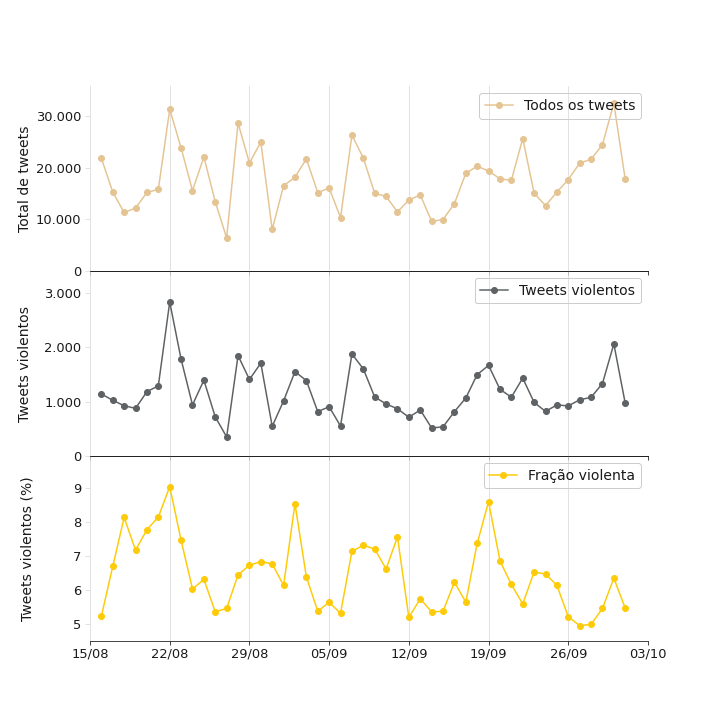
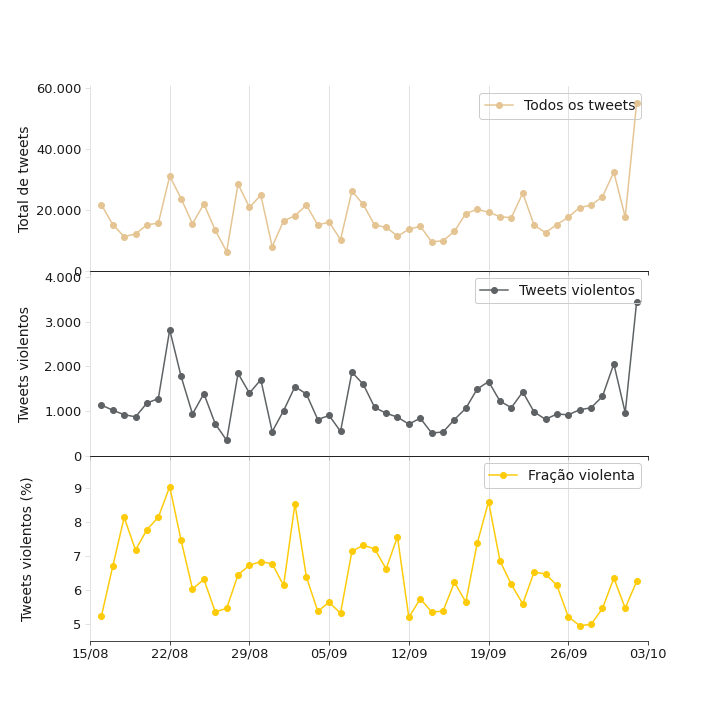
Auto-update webpage data >> 2022-10-03_04:02:48

diff --git a/assets/js/data.js b/assets/js/data.js
@@ -1,1 +1,1 @@
-data = '{"total_counts": 54052, "yesterday_counts": 969, "time_series_plot": "../gitpage/assets/img/graficos/tweets_agressivos_por_dia_feminino.png", "last_update": "2022-10-02T04:02:47"}'
+data = '{"total_counts": 57478, "yesterday_counts": 3441, "time_series_plot": "../gitpage/assets/img/graficos/tweets_agressivos_por_dia_feminino.png", "last_update": "2022-10-03T04:02:48"}'
